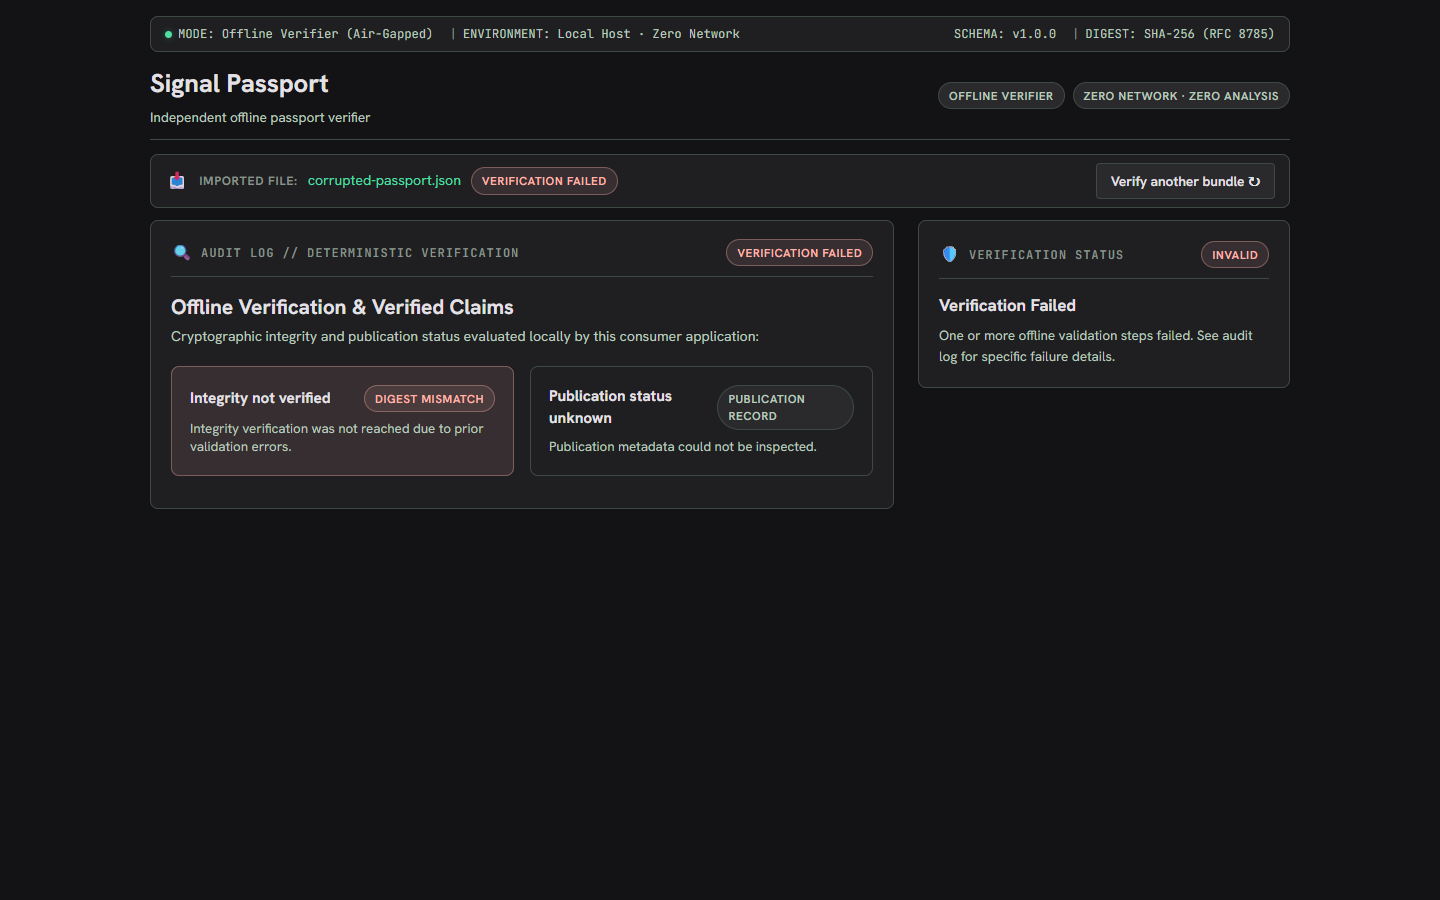
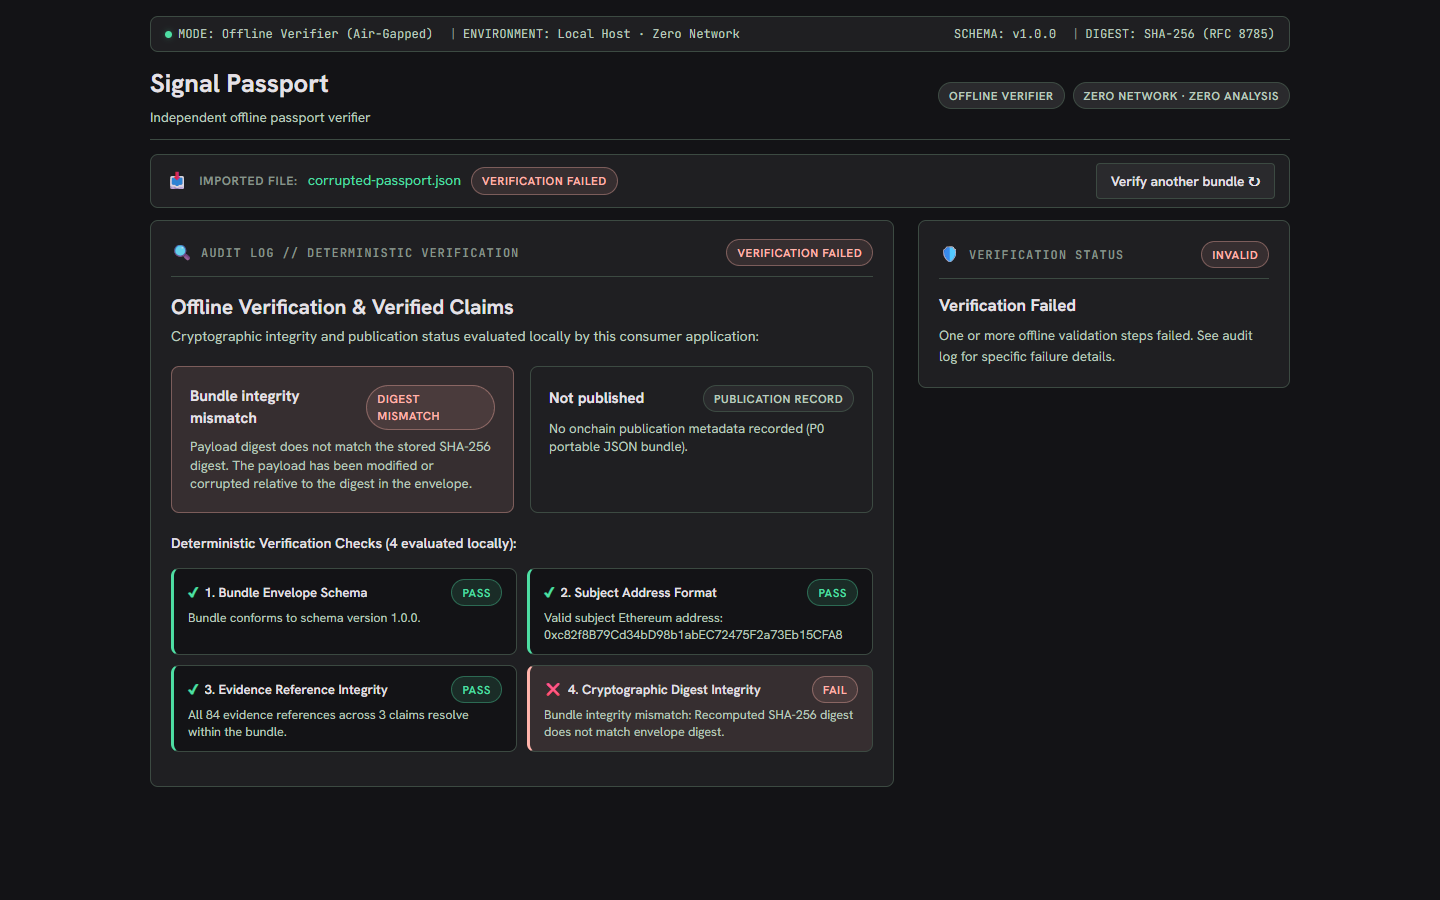
fix(m11): render verifier checklist on failure, remove concurrently and debug hooks

Changed region(s): [[0.125, 0.4356, 0.625, 0.84], [0.375, 0.4356, 0.5938, 0.5289], [0.125, 0.6533, 0.2812, 0.7156]]

diff --git a/apps/consumer/app/page.tsx b/apps/consumer/app/page.tsx
@@ -45,10 +45,6 @@ export default function ConsumerApp() {
     }
   }
 
-  React.useEffect(() => {
-    (window as any).__loadPassportFile = processFile;
-  });
-
   function handleDrop(e: React.DragEvent) {
     e.preventDefault();
     setDragActive(false);
@@ -242,8 +238,8 @@ export default function ConsumerApp() {
                 </div>
               </div>
 
-              {/* Display Bundle Data (Read-only from bundle, never recomputed) */}
-              {result.bundle && (
+              {/* Display Bundle Data (Only when verification succeeded) */}
+              {result.isValid && result.bundle && (
                 <>
                   {/* Partial Coverage Warning (PRD §14) */}
                   {result.bundle.payload.coverage.coverageStatus === "partial" && (
@@ -333,9 +329,25 @@ export default function ConsumerApp() {
                     );
                   })()}
 
-                  {/* Compact 4-Check Checklist Grid (M11) */}
-                  <div style={{ marginTop: "18px", marginBottom: "8px", fontSize: "0.88rem", fontWeight: 600, color: "var(--text)" }}>
-                    Deterministic Verification Checks (4/4 evaluated locally):
+                  <div style={{ marginTop: "14px", fontSize: "0.85rem", color: "var(--text-muted)" }}>
+                    Verified against {result.bundle.payload.evidence.length} self-contained onchain evidence records stored in the bundle. No external API was consulted.
+                  </div>
+
+                  {/* Independent Verifiability Notice (PRD §7/§9) */}
+                  <div className="verifiability-box" style={{ marginTop: "14px" }}>
+                    <span className="verifiability-box-icon">🔍</span>
+                    <span>
+                      Every transaction in this bundle is public. Click any source reference to confirm it yourself on Blockscout, a public blockchain explorer — you don't have to take Signal Passport's word for any of it.
+                    </span>
+                  </div>
+                </>
+              )}
+
+              {/* Compact 4-Check Checklist Grid (M11) - Renders on both success and failure paths */}
+              {result.steps.length > 0 && (
+                <div style={{ marginTop: result.bundle ? "20px" : "14px" }}>
+                  <div style={{ marginBottom: "8px", fontSize: "0.88rem", fontWeight: 600, color: "var(--text)" }}>
+                    Deterministic Verification Checks ({result.steps.length} evaluated locally):
                   </div>
                   <div className="checklist-compact-grid">
                     {result.steps.map((st, idx) => (
@@ -355,24 +367,12 @@ export default function ConsumerApp() {
                       </div>
                     ))}
                   </div>
-
-                  <div style={{ marginTop: "14px", fontSize: "0.85rem", color: "var(--text-muted)" }}>
-                    Verified against {result.bundle.payload.evidence.length} self-contained onchain evidence records stored in the bundle. No external API was consulted.
-                  </div>
-
-                  {/* Independent Verifiability Notice (PRD §7/§9) */}
-                  <div className="verifiability-box" style={{ marginTop: "14px" }}>
-                    <span className="verifiability-box-icon">🔍</span>
-                    <span>
-                      Every transaction in this bundle is public. Click any source reference to confirm it yourself on Blockscout, a public blockchain explorer — you don't have to take Signal Passport's word for any of it.
-                    </span>
-                  </div>
-                </>
+                </div>
               )}
             </div>
 
             {/* Expandable Raw Payload View (M11) */}
-            {result.bundle && (
+            {result.isValid && result.bundle && (
               <div className="raw-payload-card">
                 <details className="raw-payload-details">
                   <summary>
@@ -405,7 +405,7 @@ export default function ConsumerApp() {
             )}
 
             {/* Imported AI Explanation (PRD §10 - Display Only) */}
-            {result.bundle?.explanation ? (
+            {result.isValid && result.bundle?.explanation ? (
               <div className="ai-section">
                 <div className="ai-header">
                   <div className="ai-header-left">
@@ -443,7 +443,7 @@ export default function ConsumerApp() {
                   )}
                 </div>
               </div>
-            ) : result.bundle ? (
+            ) : result.isValid && result.bundle ? (
               <div style={{ padding: "12px 16px", background: "var(--surface)", borderRadius: "6px", border: "1px solid var(--border)", fontSize: "0.82rem", color: "var(--text-dim)" }}>
                 No optional AI narrative attached to this bundle. (Passport bundles without explanations are fully valid and cryptographically verifiable).
               </div>
@@ -474,7 +474,7 @@ export default function ConsumerApp() {
             </div>
 
             {/* Technical Metadata & Provenance Panel (Collapsible - M11) */}
-            {result.bundle && (
+            {result.isValid && result.bundle && (
               <div className="sidebar-card">
                 <details open className="sidebar-meta-details">
                   <summary className="sidebar-meta-summary">

diff --git a/apps/passport/app/page.tsx b/apps/passport/app/page.tsx
@@ -49,9 +49,9 @@ export default function PassportApp() {
     setAddressError(null);
   }
 
-  async function handleAnalyze(e?: React.FormEvent, overrideAddress?: string) {
-    if (e) e.preventDefault();
-    const cleanAddress = (overrideAddress ?? addressInput).trim();
+  async function handleAnalyze(e: React.FormEvent) {
+    e.preventDefault();
+    const cleanAddress = addressInput.trim();
     const validation = validateEthereumAddress(cleanAddress);
     if (!validation.isValid) {
       setAddressError(validation.error || "Invalid Ethereum address");
@@ -152,14 +152,6 @@ export default function PassportApp() {
       ]);
     }
   }
-
-  React.useEffect(() => {
-    (window as any).__runAnalyze = (addr?: string) => {
-      const targetAddr = addr || EXAMPLE_SUBJECT;
-      handleAddressChange(targetAddr);
-      return handleAnalyze(undefined, targetAddr);
-    };
-  });
 
   async function handleGenerateExplanation() {
     if (!bundle) return;
